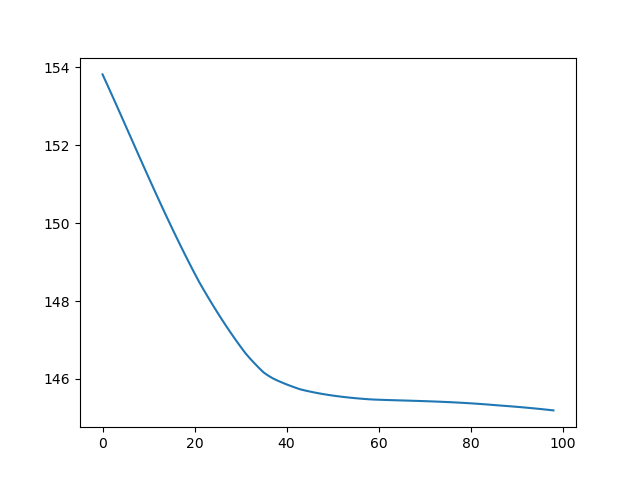
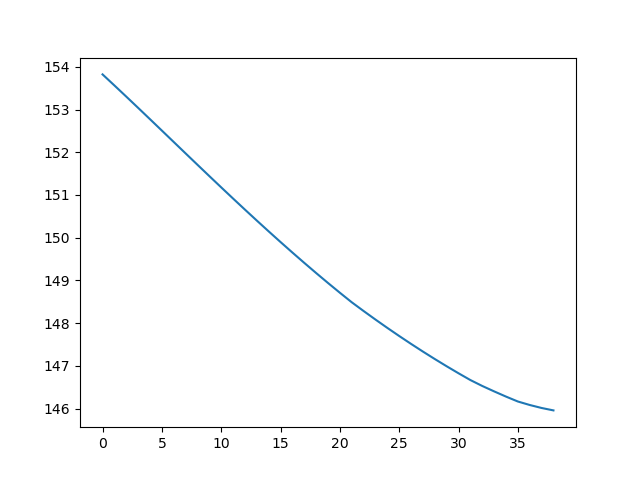
better for long runs

diff --git a/Jupyterbook/Notebooks/benchmarking/benchmarkC.py b/Jupyterbook/Notebooks/benchmarking/benchmarkC.py
@@ -381,18 +381,32 @@ lw_surface_defn_fn = sympy.exp(-(z**2)/(2*sdev**2)) # at z = 0
 t_step = 0
 time = 0.
 
-timeVal =  np.zeros(nsteps)*np.nan      # time values
-vrmsVal =  np.zeros(nsteps)*np.nan      # v_rms values 
-NuVal =  np.zeros(nsteps)*np.nan        # Nusselt number values
-difference = np.zeros(nsteps)*np.nan  ## differences in the mesh variables
+if (infile == None):
+    timeVal =  []    # time values
+    vrmsVal =  []  # v_rms values 
+    NuVal =  []      # Nusselt number values
+    difference = []  ## differences in the mesh variables
+else:
+    print("reading markers from previous files")
+    if (uw.mpi.rank==0):
+        with open(infile + "markers.pkl", 'rb') as f:
+            loaded_data = pickle.load(f)
+        timeVal = loaded_data[0]
+        vrmsVal = loaded_data[1]
+        NuVal = loaded_data[2]
+        difference = loaded_data[3]
+
+    
+
 
 # %%
 #### Convection model / update in time
 
 print("started the time loop")
 while t_step < nsteps:
-    vrmsVal[t_step] = v_rms()
-    timeVal[t_step] = time
+
+    vrmsVal.append(v_rms())
+    timeVal.append(time)
     
 
 
@@ -426,11 +440,17 @@ while t_step < nsteps:
     if t_step % save_every == 0 and t_step > 0:
         if uw.mpi.rank == 0:
             print("Timestep {}, dt {}, v_rms {}".format(t_step, delta_t, vrmsVal[t_step]), flush = True)
-            print("Saving checkpoint for time step: ", t_step, flush = True)
+            print("Saving checkpoint for time step: ", t_step, "total steps: ", nsteps , flush = True)
+            plt.plot(difference[1:])
+            plt.savefig("difference.png")
+            plt.clf()
+            plt.plot(vrmsVal)
+            plt.savefig("vrms.png")
+            plt.clf()
         meshbox.write_timestep_xdmf(filename = outfile, meshVars=[v_soln, p_soln, t_soln], index=0)
 
     with meshbox.access():
-        difference[t_step] = getDifference([old_t_soln_data, old_v_soln_data], [t_soln.data, v_soln.data])
+        difference.append(getDifference([old_t_soln_data, old_v_soln_data], [t_soln.data, v_soln.data]))
 
         if uw.mpi.rank == 0:
             print(getDifference([old_t_soln_data, old_v_soln_data], [t_soln.data, v_soln.data]))
@@ -445,6 +465,10 @@ while t_step < nsteps:
 
     # early stopping criterion
     #if t_step > 1 and abs((NuVal[t_step] - NuVal[t_step - 1])/NuVal[t_step]) < epsilon_lr:
+    if (uw.mpi.rank == 0):
+        with open(outfile+"markers.pkl", 'wb') as f:
+            pickle.dump([timeVal, vrmsVal,NuVal, difference], f)
+
 
     
     

diff --git a/Jupyterbook/Notebooks/benchmarking/benchmark.py b/Jupyterbook/Notebooks/benchmarking/benchmark.py
@@ -381,18 +381,31 @@ lw_surface_defn_fn = sympy.exp(-(z**2)/(2*sdev**2)) # at z = 0
 t_step = 0
 time = 0.
 
-timeVal =  np.zeros(nsteps)*np.nan      # time values
-vrmsVal =  np.zeros(nsteps)*np.nan      # v_rms values 
-NuVal =  np.zeros(nsteps)*np.nan        # Nusselt number values
-difference = np.zeros(nsteps)*np.nan  ## differences in the mesh variables
+if infile == None:
+    timeVal =  []    # time values
+    vrmsVal =  []  # v_rms values 
+    NuVal =  []      # Nusselt number values
+    difference = []  ## differences in the mesh variables
+else:
+    if (uw.mpi.rank==0):
+        with open(infile + "markers.pkl", 'rb') as f:
+            loaded_data = pickle.load(f)
+            timeVal = loaded_data[0]
+            vrmsVal = loaded_data[1]
+            NuVal = loaded_data[2]
+            difference = loaded_data[3]
+
+    
+
 
 # %%
 #### Convection model / update in time
 
 print("started the time loop")
 while t_step < nsteps:
-    vrmsVal[t_step] = v_rms()
-    timeVal[t_step] = time
+
+    vrmsVal.append(v_rms())
+    timeVal.append(time)
     
 
 
@@ -426,11 +439,17 @@ while t_step < nsteps:
     if t_step % save_every == 0 and t_step > 0:
         if uw.mpi.rank == 0:
             print("Timestep {}, dt {}, v_rms {}".format(t_step, delta_t, vrmsVal[t_step]), flush = True)
-            print("Saving checkpoint for time step: ", t_step, flush = True)
+            print("Saving checkpoint for time step: ", t_step, "total steps: ", nsteps , flush = True)
+            plt.plot(difference[1:])
+            plt.savefig("difference.png")
+            plt.clf()
+            plt.plot(vrmsVal)
+            plt.savefig("vrms.png")
+            plt.clf()
         meshbox.write_timestep_xdmf(filename = outfile, meshVars=[v_soln, p_soln, t_soln], index=0)
 
     with meshbox.access():
-        difference[t_step] = getDifference([old_t_soln_data, old_v_soln_data], [t_soln.data, v_soln.data])
+        difference.append(getDifference([old_t_soln_data, old_v_soln_data], [t_soln.data, v_soln.data]))
 
         if uw.mpi.rank == 0:
             print(getDifference([old_t_soln_data, old_v_soln_data], [t_soln.data, v_soln.data]))
@@ -445,6 +464,10 @@ while t_step < nsteps:
 
     # early stopping criterion
     #if t_step > 1 and abs((NuVal[t_step] - NuVal[t_step - 1])/NuVal[t_step]) < epsilon_lr:
+    if (uw.mpi.rank == 0):
+        with open(outfile+"markers.pkl", 'wb') as f:
+            pickle.dump([timeVal, vrmsVal,NuVal, difference], f)
+
 
     
     
